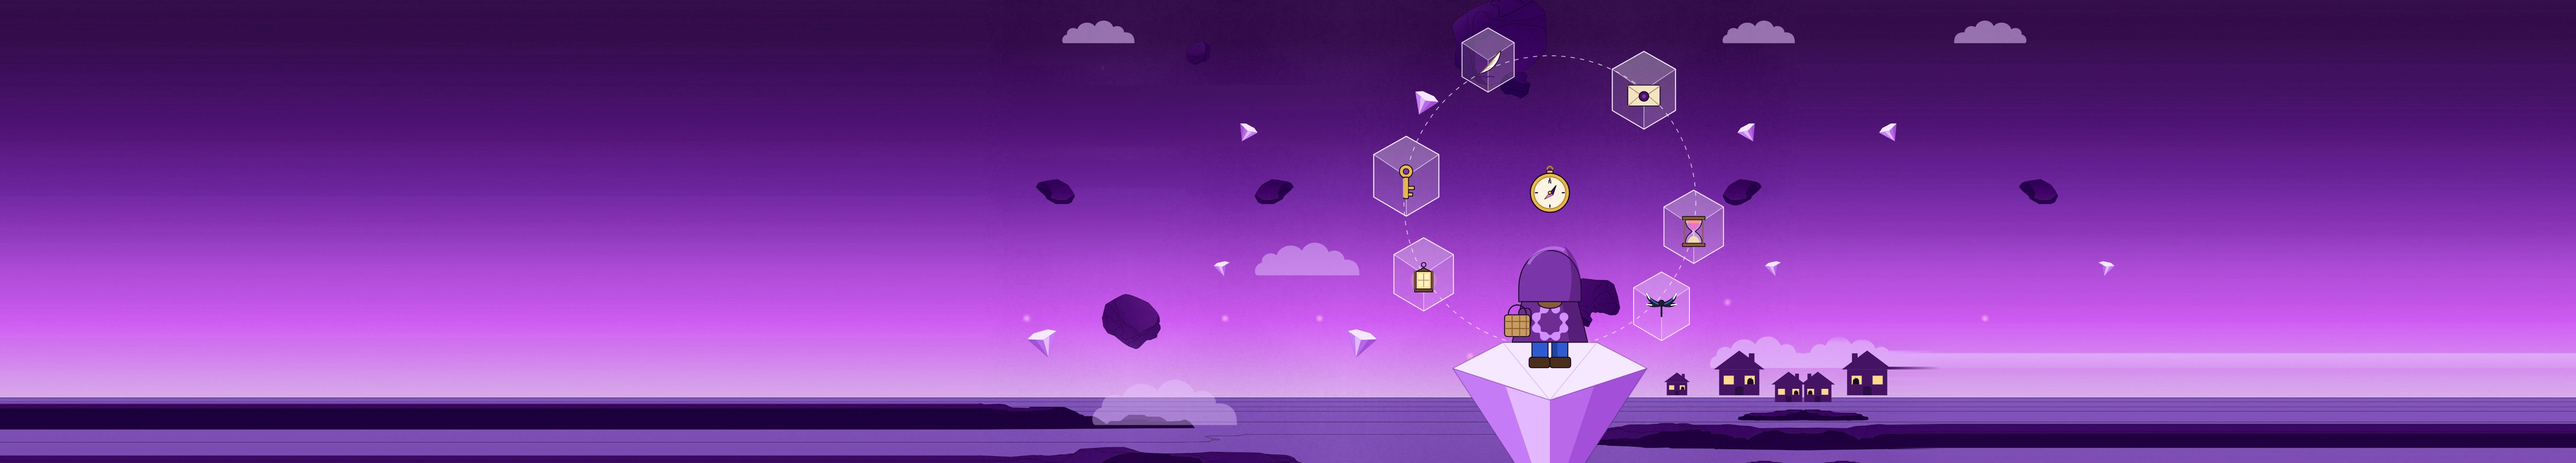
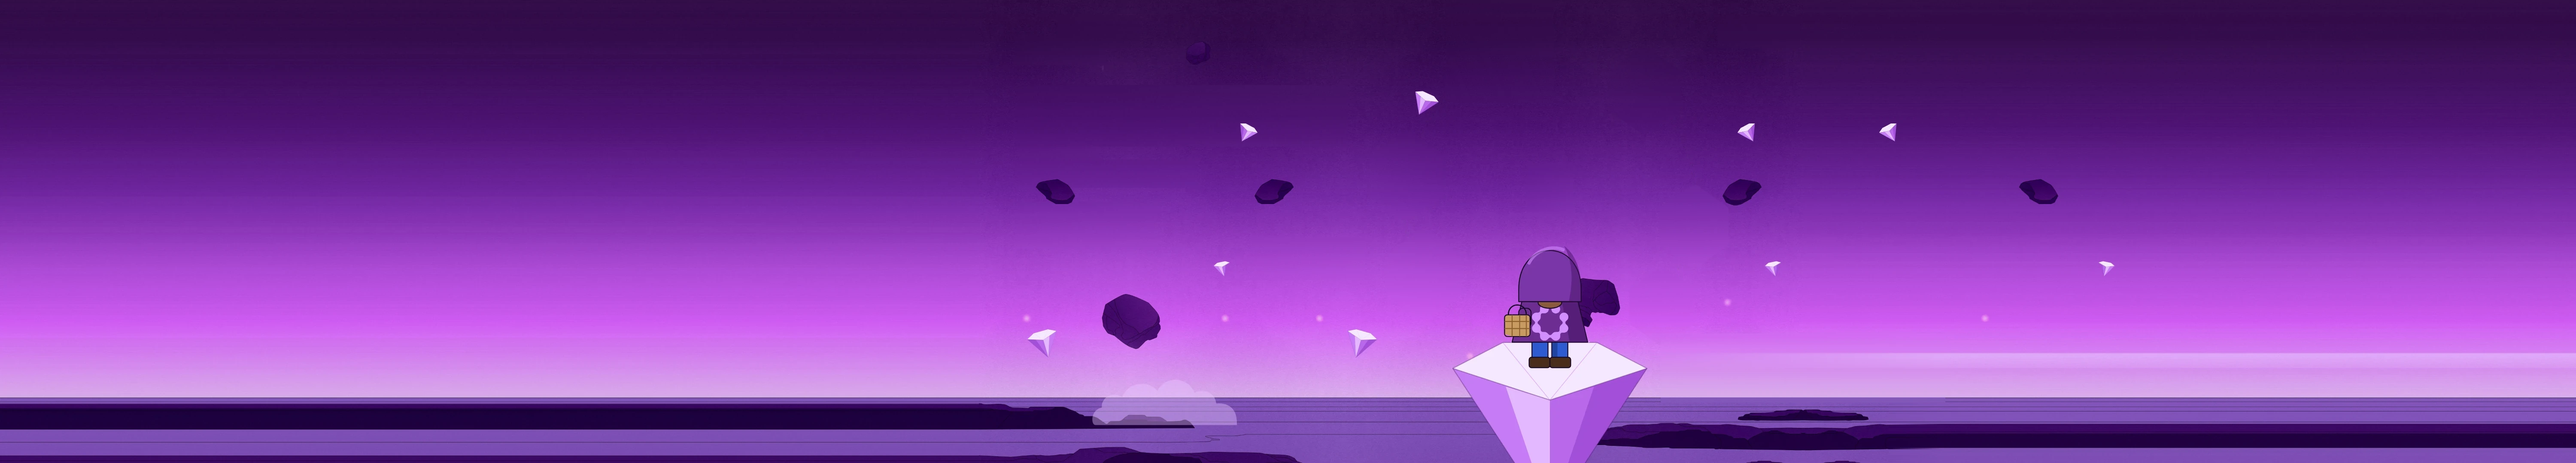
landing: the designer's pass -- Purple alone in the scene, and cyera.com's white button
The icons round Purple, their dashed ring, the houses and four sky clouds are painted out of the
landing art (option C, the client's pick). The landing and how-to button is the website's Book a
demo: Offwhite, Black square arrow tile, so those screens carry no Lime; Results keeps its pill.
The LinkedIn picture is og-landing-2.png, a new name because LinkedIn caches by URL.

diff --git a/apps/game/src/ui/screens.css b/apps/game/src/ui/screens.css
@@ -1458,10 +1458,34 @@ html:is([data-cabinet='sides'], [data-cabinet='overlay']) .otp-title-panel {
   padding-block: calc(4px * var(--otp-ui));
 }
 
-/* The title's one Lime never breaks over two lines (the 2026-10-22 review: "Begin the walk" wrapped
-   in the narrow card at 844x390 and was the only wrapped button in the game). */
+/* The title's call to action never breaks over two lines (the 2026-10-22 review: "Begin the walk"
+   wrapped in the narrow card at 844x390 and was the only wrapped button in the game). */
 .otp-title-panel .otp-cta {
   white-space: nowrap;
+}
+
+/* The landing's button is cyera.com's "Book a demo" (the designer, 2026-11-02, chosen by the client
+   the same day): an Offwhite rounded rectangle, Black words, and the arrow on a Black square tile
+   at its right end. It replaces the Lime pill on the landing and the how-to sign only, so those two
+   screens carry no Lime; Results keeps its Lime pill. */
+.otp-title-panel .otp-cta {
+  background: var(--cyera-offwhite);
+  color: var(--cyera-black);
+  border: 0;
+  border-radius: calc(14px * var(--otp-ui));
+  padding: calc(8px * var(--otp-ui)) calc(8px * var(--otp-ui)) calc(8px * var(--otp-ui))
+    calc(26px * var(--otp-ui));
+  gap: calc(22px * var(--otp-ui));
+  font-weight: 500;
+  letter-spacing: -0.01em;
+}
+.otp-title-panel .otp-cta__disc {
+  width: calc(44px * var(--otp-ui));
+  height: calc(44px * var(--otp-ui));
+  min-width: 34px;
+  min-height: 34px;
+  border-radius: calc(10px * var(--otp-ui));
+  font-size: calc(20px * var(--otp-ui));
 }
 .otp-title-panel:is([data-fit='2'], [data-fit='3'], [data-fit='4']) .otp-cta__disc {
   width: 26px;
@@ -2619,10 +2643,12 @@ html:is([data-cabinet='sides'], [data-cabinet='overlay']) .otp-title-art__img {
     color: var(--cyera-offwhite);
   }
 
-  /* The pill grows with the title, as the designer drew it: about a third of the title's width. */
+  /* The button grows with the title, as the designer drew it: about a third of the title's width. */
   html:not([data-cabinet='sides'], [data-cabinet='overlay']) .otp-title-dock[data-open] .otp-cta {
     font-size: max(16px, calc(var(--otp-canvas-h, 0px) * 0.036));
-    padding: calc(var(--otp-canvas-h, 0px) * 0.024) calc(var(--otp-canvas-h, 0px) * 0.042);
+    /* Tight round the arrow tile on three sides, the words' room on the left. */
+    padding: calc(var(--otp-canvas-h, 0px) * 0.012) calc(var(--otp-canvas-h, 0px) * 0.012)
+      calc(var(--otp-canvas-h, 0px) * 0.012) calc(var(--otp-canvas-h, 0px) * 0.04);
     margin-top: calc(var(--otp-canvas-h, 0px) * 0.02);
   }
 }

diff --git a/apps/game/test/public-page.test.ts b/apps/game/test/public-page.test.ts
@@ -77,7 +77,7 @@ describe('the page a visitor downloads', () => {
  * landing page to show up"). LinkedIn, Slack, X and iMessage draw their preview from these tags in
  * the static HTML; none of them runs the script, so nothing rendered later can stand in for them.
  *
- * `public/og-landing.png` is the landing itself, not drawn for the purpose: the real page in its
+ * `public/og-landing-2.png` is the landing itself, not drawn for the purpose: the real page in its
  * wide layout (the client, 2026-10-26: "the landing picture of a web page like this"), captured at
  * 1716x940 with the deck's stick and T hidden, cut to the header and the framed scene and scaled to
  * LinkedIn's own 1200x627. A capture at 1200x627 itself is the narrow cabinet, controls at the
@@ -93,7 +93,7 @@ describe('a link to the game, shared', () => {
 
   it('previews as the landing, large', () => {
     expect(tag('og:title')).toBe("Off the Path: That's Not My Grandma");
-    expect(tag('og:image')).toMatch(/^https:\/\/[^/]+\/og-landing\.png$/);
+    expect(tag('og:image')).toMatch(/^https:\/\/[^/]+\/og-landing-2\.png$/);
     expect(tag('og:image:width')).toBe('1200');
     expect(tag('og:image:height')).toBe('627');
     expect(tag('twitter:card')).toBe('summary_large_image');
@@ -101,7 +101,7 @@ describe('a link to the game, shared', () => {
   });
 
   it('points at an image that ships, at the size it claims', () => {
-    const png = readFileSync(fileURLToPath(new URL('public/og-landing.png', APP)));
+    const png = readFileSync(fileURLToPath(new URL('public/og-landing-2.png', APP)));
     // The IHDR chunk: width and height, big-endian, at bytes 16 and 20.
     expect([png.readUInt32BE(16), png.readUInt32BE(20)]).toEqual([1200, 627]);
   });

diff --git a/apps/game/e2e/cabinet.spec.ts b/apps/game/e2e/cabinet.spec.ts
@@ -224,8 +224,22 @@ test('the deck spends the one Lime while you play, and only then', async ({ page
   await page.setViewportSize(REFERENCE_VIEWPORTS.desktop);
   await page.goto('/');
   await page.waitForSelector('#game[data-ready="true"]');
-  // Title: the way in is the Lime, and A is Lilac.
-  expect(await limes(page)).toEqual(['otp-cta']);
+  // Title: no Lime at all. The way in is cyera.com's white button (the designer, 2026-11-02), and A
+  // is Lilac.
+  expect(await limes(page)).toEqual([]);
+  const way = await page
+    .locator('.otp-title-panel .otp-cta')
+    .evaluate((el) => [getComputedStyle(el).backgroundColor, getComputedStyle(el).borderRadius]);
+  const offwhite = await page.evaluate(() => {
+    const probe = document.createElement('div');
+    probe.style.background = 'var(--cyera-offwhite)';
+    document.body.append(probe);
+    const c = getComputedStyle(probe).backgroundColor;
+    probe.remove();
+    return c;
+  });
+  expect(way[0]).toBe(offwhite);
+  expect(way[1]).not.toBe('9999px');
 
   await startGame(page);
   expect(await limes(page)).toEqual(['otp-a-button']);

diff --git a/apps/game/index.html b/apps/game/index.html
@@ -16,7 +16,7 @@
       content="Little Purple is your AI agent. Three skills on the path are good, four are malicious. Take only the good three and race to Grandma."
     />
     <meta property="og:url" content="https://off-the-path-game.vercel.app/" />
-    <meta property="og:image" content="https://off-the-path-game.vercel.app/og-landing.png" />
+    <meta property="og:image" content="https://off-the-path-game.vercel.app/og-landing-2.png" />
     <meta property="og:image:width" content="1200" />
     <meta property="og:image:height" content="627" />
     <meta property="og:image:alt" content="The Off the Path landing" />

diff --git a/docs/PLAN.md b/docs/PLAN.md
@@ -874,10 +874,11 @@ specs and Paul's review.
 - [ ] **Human:** approve COPY_REVIEW 0e: the seven opening lines are approved (the client, 2026-10-26); Purple's two replies are not yet
 - [x] The card does not say the greeting again (the client, 2026-10-26): it opens on the skill itself, the greeting said once before it
 - [x] A finger's tap on the joystick is a one-tile nudge (the client, 2026-10-26: Purple "starts walking without stopping"): `TAP_PX`, one tile, for a touch tap; a mouse click and the walk buttons keep the four-tile step, a hold still walks until let go (`e2e/touch-pad.spec.ts`)
-- [x] A shared link previews as the landing (the client, 2026-10-26: LinkedIn): Open Graph and `twitter:card` tags in `index.html`, `public/og-landing.png` the real landing in its wide layout, scaled to 1200x627 (a new picture takes a new name; LinkedIn keeps images by URL), guarded in `test/public-page.test.ts`. The host is the Vercel address until the research-page URL arrives; a page that embeds the game needs its own `og:image`
+- [x] A shared link previews as the landing (the client, 2026-10-26: LinkedIn): Open Graph and `twitter:card` tags in `index.html`, `public/og-landing-2.png` the real landing (`og-landing.png` until the 2026-11-02 landing) in its wide layout, scaled to 1200x627 (a new picture takes a new name; LinkedIn keeps images by URL), guarded in `test/public-page.test.ts`. The host is the Vercel address until the research-page URL arrives; a page that embeds the game needs its own `og:image`
 - [x] The how-to signboard, the client's pass (2026-10-26): its title, way in and controls line centred, the steps' numbers kept down the left; the controls line says "T or Space to talk" (Space always worked); the river's Cyera board carries its logo behind the how-to too, not only during the walk (`e2e/forest-signs.spec.ts`, at the client's 1716x940, since at 1280 the board is out of frame); the landing's shore line at 2.1% of the canvas so the longer line clears the pale cloud
 - [x] The deck at full strength on every screen (the client, 2026-10-26): the 55% dimming outside the walk is gone; while you walk a hover rings the stick or A in Lime, a held stick goes Black inside a Lime ring (`data-held`), a pressed A's rim thickens. A's Lime stays the walk's alone, since the title, how-to and Results own their screen's one Lime (the client chose this over a Lime A everywhere). `e2e/touch-pad.spec.ts`
 - [x] The work email taken out (the client, 2026-10-29: "no need for work email"): core `contact.ts`, the routes' flag and contact write, the Results fields and consent, the `post` A/B test and its two strings all removed; a post carrying `email` or `consent` is a 400. Migration 0007's table stays as history. **Human:** keep or delete any addresses already in `public.leaderboard_contact`, and remove `OTP_WORK_EMAIL` from Vercel if it was ever set (it is read by nothing now)
+- [x] The designer's landing (2026-11-02, the client chose option C with the white button): the icons round Purple, their dashed ring, the houses and four sky clouds painted out of `landing-art.webp` and `@2x` (the low cloud on the water stays); the landing and how-to button is cyera.com's "Book a demo" (Offwhite rounded rectangle, Black square arrow tile), so those two screens carry no Lime and Results keeps its Lime pill (UI_FOUNDATIONS section 2, `cabinet.spec.ts`); the LinkedIn picture is `og-landing-2.png`. If the designer has the source file, their own clean export would replace the painted-out one
 - [x] The score asks "How secure are your skills?" with a line from the AMOS research under it (the client, 2026-10-29; COPY_REVIEW 0f). **Human:** Research's sign-off on the 70-skills figure, live before the blog is out
 
 ## Readiness findings (sweep of 2026-10-21)

diff --git a/docs/UI_FOUNDATIONS.md b/docs/UI_FOUNDATIONS.md
@@ -34,9 +34,15 @@ needed.
 
 | Screen      | Lime                  |
 | ----------- | --------------------- |
-| Title       | **Play**              |
+| Title       | **None** (see below)  |
 | Results     | **Read the Research** |
 | **Inspect** | **None at all**       |
+
+**Title, since 2026-11-02:** the designer asked for the landing's button to be cyera.com's
+"Book a demo" button, and the client chose it: an Offwhite rounded rectangle, Black words, the
+arrow on a Black square tile. The landing and the how-to sign therefore carry no Lime. Results
+keeps its Lime pill. The same round took the icons, the dashed ring, the houses and four sky
+clouds out of the landing picture.
 
 The deck gives the reason, and it is a game-design argument, not a styling one:
 
